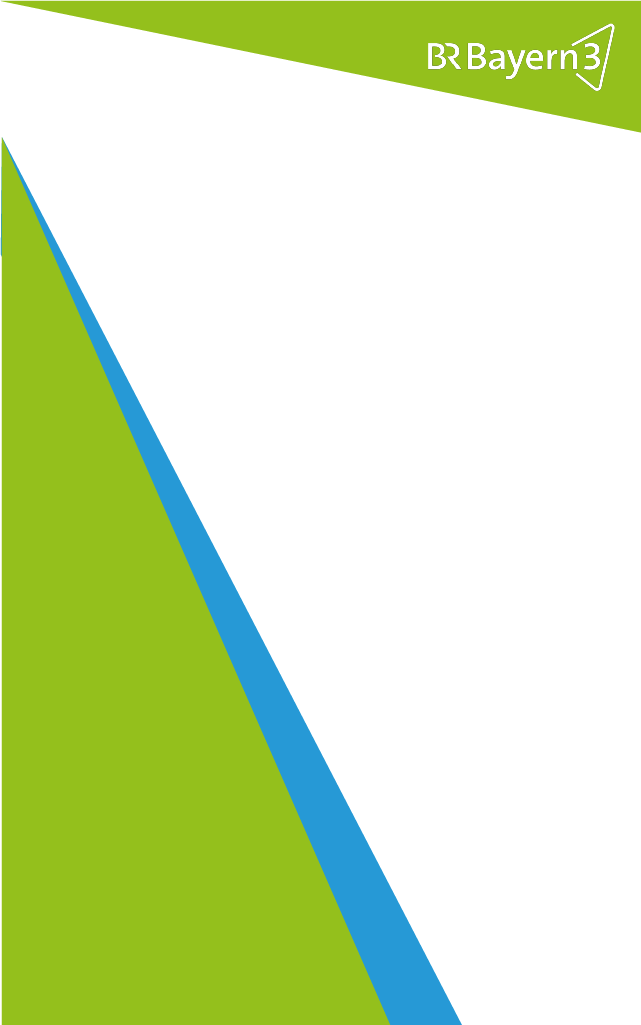
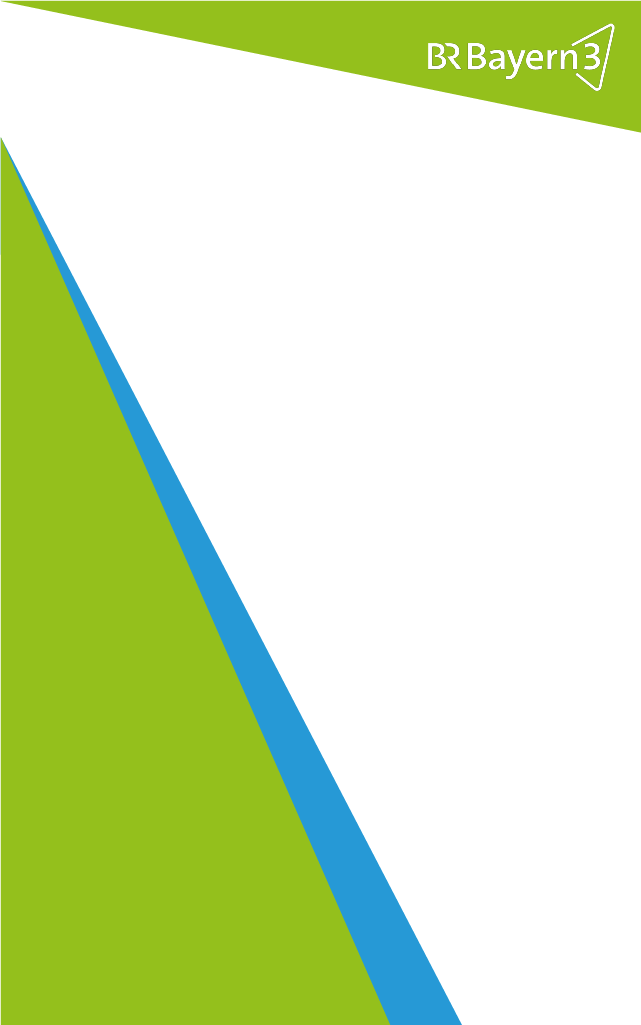
Groove-Feinschliff: Cheers nach oben, Sonar um die Tänzerin, Rand-Fix pixelgenau
Auszeichnungen ("Tanzgott", "Tanzmaschine", …) erscheinen jetzt oben über
der Livebild-Fläche (mehr Platz, max. Breite 380 → 700) statt unten
rechts; "Tanzmaschine" von Orange auf BR3-Blau. Konfetti zu den
Auszeichnungen komplett entfernt (zu wild) — Konfetti-Instanz in Groove
war damit tot und ist raus. Unteres Sonar zentriert auf der Körpermitte
der Tänzerin statt auf den Füßen.

Neuer BG-Export mit sauber ausgearbeiteter Keilspitze (Geometrie
unverändert). repairEdges repariert jetzt PIXELGENAU statt zeilenweise:
Randpixel nur auffüllen, wenn der innere Nachbar deckend ist, und dabei
komplett übernehmen (Farbe + Alpha) — zeilenweises Kopieren hatte die
Banner-Spitze blockig gemacht, reines Alpha-Anheben machte die
AA-Mischfarben als türkise Linie sichtbar.

Claude-Session: https://claude.ai/code/session_01SJZv5sQkUGYRAKSSzhXFfN

diff --git a/src/renderer/games/schmalogroove/schmalogroove.ts b/src/renderer/games/schmalogroove/schmalogroove.ts
@@ -1,6 +1,5 @@
 import * as THREE from 'three';
 import { Game, GameContext, SettingValues, VIEW_W, VIEW_H } from '../../core/game';
-import { Confetti } from '../../core/confetti';
 import { repairEdges } from '../../core/assets';
 import { BeatEngine } from '../../core/beat';
 import { Dancer } from './dancer';
@@ -28,9 +27,10 @@ const LAYOUT = {
   // Füße über dem "Tanz mit!"-Schriftzug (Text-BBox y ≈ 1781–1843)
   stage: [300, 1440],
   camZ: 8.0,
-  // Auszeichnung unten rechts über der Livebild-Fläche
-  cheer: [1000, 1800],
-  cheerMaxW: 380,
+  // Auszeichnung ("Tanzmaschine", "Groove-Legende", …) oben über der
+  // Livebild-Fläche, unterhalb des Logo-Banners
+  cheer: [660, 480],
+  cheerMaxW: 700,
   burst: [800, 900],
   // blaue Außenkante des Keils, Dreiecke fliegen nach rechts raus
   edge: [
@@ -38,9 +38,11 @@ const LAYOUT = {
     [862, 1920],
   ],
   emit: [1, 0.12],
-  // Sonar-Ripple: unter der Tänzerin auf dem Keil
-  ripple: [290, 1750],
-  rippleMax: 400,
+  // Sonar-Ripple: Zentrum auf der Körpermitte der Tänzerin (sie steht bei
+  // stage [300, 1440]) — die Ringe laufen HINTER ihr um sie herum, der
+  // Fokus liegt auf der Figur statt auf den Füßen
+  ripple: [300, 1440],
+  rippleMax: 420,
   greenClip: [
     [0, 255],
     [728, 1920],
@@ -90,11 +92,11 @@ const RIPPLE_MIN_R = 40;
  *  (kein Grün — ginge auf dem Grün unter) */
 const RIPPLE_COLORS = ['#2699d6', '#f9b233', '#e71d73'];
 
-/** Auszeichnungen: je ein Operator-Button, togglebar, immer mit Konfetti */
+/** Auszeichnungen: je ein Operator-Button, togglebar */
 export const CHEERS = ['TANZGOTT', 'GROOVE-LEGENDE', 'TANZMASCHINE', 'DISCO-FIEBER'];
 /** Knallfarbe pro Auszeichnung (BR3-Palette), Index parallel zu CHEERS.
  *  Kein Hellgrün — das ginge auf dem grünen Hintergrund unter. */
-const CHEER_COLORS = ['#e71d73', '#2699d6', '#f9b233', '#e71d73'];
+const CHEER_COLORS = ['#e71d73', '#2699d6', '#2699d6', '#e71d73'];
 
 // Ein-/Ausblend-Zeiten der Auszeichnung: Dreieck-Welle von links nach rechts
 const CHEER_IN = 0.65;
@@ -192,8 +194,6 @@ export class Schmalogroove implements Game {
   private cheerTimer = 0;
   /** Anzeigedauer in s (Operator-Regler) */
   private cheerDuration = 5;
-  private confetti = new Confetti();
-  private confettiTimer = 0;
 
   /* ---------- Beat-Dreiecke (Kanten-Emitter) ---------- */
   /** Sonar-Ringe: Alter in s + ob Takt-„1" (kräftig/pink). Pro Sonar eine
@@ -270,15 +270,13 @@ export class Schmalogroove implements Game {
     if (!id.startsWith('cheer')) return;
     const text = CHEERS[Number(id.slice(5))] ?? CHEERS[0];
     if (this.cheer === text) {
-      // Nochmal gedrückt: vorzeitig aus — Zoom-out abspielen, Konfetti regnet aus
+      // Nochmal gedrückt: vorzeitig aus — Zoom-out abspielen
       this.cheerTimer = Math.min(this.cheerTimer, CHEER_OUT);
     } else {
       this.cheer = text;
       this.cheerTimer = this.cheerDuration;
       this.cheerTris = this.makeCheerLayout();
-      // eng hinter dem Oberkörper spawnen — der Avatar verdeckt das Auftauchen
-      this.confetti.burst(180, STAGE_CENTER_X, STAGE_CENTER_Y - 150, 160);
-      this.confettiTimer = 0.7;
+      // bewusst KEIN Konfetti mehr zur Auszeichnung — war dem User zu wild
     }
   }
 
@@ -419,18 +417,10 @@ export class Schmalogroove implements Game {
     for (const r of this.ripples) r.age += dt;
     this.ripples = this.ripples.filter((r) => r.age < RIPPLE_LIFE);
 
-    // Auszeichnung aktiv: Konfetti regnet nach, bis die Zeit abläuft
-    this.confetti.update(dt);
     if (this.cheer) {
       this.cheerTimer -= dt;
       if (this.cheerTimer <= 0) {
         this.cheer = null; // automatisch ausblenden
-      } else {
-        this.confettiTimer -= dt;
-        if (this.confettiTimer <= 0) {
-          this.confettiTimer = 0.7;
-          this.confetti.burst(50, STAGE_CENTER_X, STAGE_CENTER_Y - 150, 160);
-        }
       }
     }
 
@@ -466,10 +456,6 @@ export class Schmalogroove implements Game {
     if (LAYOUT.text && this.textImg.complete && this.textImg.naturalWidth) {
       g.drawImage(this.textImg, 0, 0, VIEW_W, VIEW_H);
     }
-    // Ebene 2: Konfetti HINTER dem Charakter — die Partikel tauchen von
-    // der Silhouette verdeckt auf und werden erst beim Rausfliegen sichtbar
-    this.confetti.render(g);
-
     // Ebene 3: 3D-Szene mit Alpha obendrauf
     this.renderer.render(this.scene, this.camera);
 

diff --git a/src/renderer/core/assets.ts b/src/renderer/core/assets.ts
@@ -5,32 +5,51 @@
  * Beim Skalieren sampelt das Canvas-Filtering in diese Zeilen hinein —
  * ums Bild zieht sich dann eine dunkle Naht, hinter der das Live-Bild
  * durchscheint. Ein Quell-Crop reicht nicht, weil das Filtering auch über
- * den Quellausschnitt hinaus liest. Deshalb: Bild einmalig in einen
- * Offscreen-Canvas kopieren und die äußeren `border` Zeilen/Spalten durch
- * die erste saubere Nachbarzeile ersetzen (unskalierte 1:1-Kopien — bei
- * skaliertem Kopieren würde das Filtering wieder die kaputten Zeilen
- * mitlesen). In ehrlich transparenten Bereichen (Live-Fläche) bleibt die
- * Kante transparent, weil auch die Nachbarzeile dort transparent ist. */
-export function repairEdges(img: HTMLImageElement, border = 2): HTMLCanvasElement {
+ * den Quellausschnitt hinaus liest.
+ *
+ * Repariert wird PIXELGENAU statt zeilenweise: Ein Randpixel wird nur
+ * aufgefüllt, wenn sein innerer Nachbar deckend ist (dann gehört es zur
+ * Fläche und der Export hat es kaputtgemacht). Halbtransparente Pixel an
+ * echten Schräg-Kanten (Keil-/Banner-Spitzen, Live-Flächen) behalten ihr
+ * Anti-Aliasing — zeilenweises Kopieren hatte solche Spitzen blockig
+ * gemacht. Gearbeitet wird von der inneren zur äußeren Randlinie, damit
+ * sich die Reparatur nach außen durchkettet. */
+export function repairEdges(img: HTMLImageElement): HTMLCanvasElement {
   const w = img.naturalWidth;
   const h = img.naturalHeight;
   const c = document.createElement('canvas');
   c.width = w;
   c.height = h;
-  const g = c.getContext('2d')!;
+  const g = c.getContext('2d', { willReadFrequently: true })!;
   g.drawImage(img, 0, 0);
-  for (let i = 0; i < border; i++) {
-    // obere/untere Zeilen ← erste saubere Zeile
-    g.clearRect(0, i, w, 1);
-    g.drawImage(img, 0, border, w, 1, 0, i, w, 1);
-    g.clearRect(0, h - 1 - i, w, 1);
-    g.drawImage(img, 0, h - 1 - border, w, 1, 0, h - 1 - i, w, 1);
-    // linke/rechte Spalten ← erste saubere Spalte (aus dem schon
-    // zeilen-reparierten Canvas, damit auch die Ecken gefüllt werden)
-    g.clearRect(i, 0, 1, h);
-    g.drawImage(c, border, 0, 1, h, i, 0, 1, h);
-    g.clearRect(w - 1 - i, 0, 1, h);
-    g.drawImage(c, w - 1 - border, 0, 1, h, w - 1 - i, 0, 1, h);
+  const d = g.getImageData(0, 0, w, h);
+  const px = d.data;
+
+  /** Randpixel (x,y) anhand des inneren Nachbarn (ix,iy) auffüllen —
+   *  KOMPLETT übernehmen (Farbe + Alpha): Halbtransparente Randpixel
+   *  tragen oft eine Misch-Farbe aus dem Kanten-Anti-Aliasing; nur das
+   *  Alpha zu heben würde diese Blend-Farbe als deckende Linie sichtbar
+   *  machen. */
+  const fix = (x: number, y: number, ix: number, iy: number) => {
+    const o = (y * w + x) * 4;
+    const i = (iy * w + ix) * 4;
+    if (px[o + 3] >= 250 || px[i + 3] < 250) return;
+    px[o] = px[i];
+    px[o + 1] = px[i + 1];
+    px[o + 2] = px[i + 2];
+    px[o + 3] = 255;
+  };
+
+  for (let k = 1; k >= 0; k--) {
+    for (let x = 0; x < w; x++) {
+      fix(x, k, x, k + 1);
+      fix(x, h - 1 - k, x, h - 2 - k);
+    }
+    for (let y = 0; y < h; y++) {
+      fix(k, y, k + 1, y);
+      fix(w - 1 - k, y, w - 2 - k, y);
+    }
   }
+  g.putImageData(d, 0, 0);
   return c;
 }
